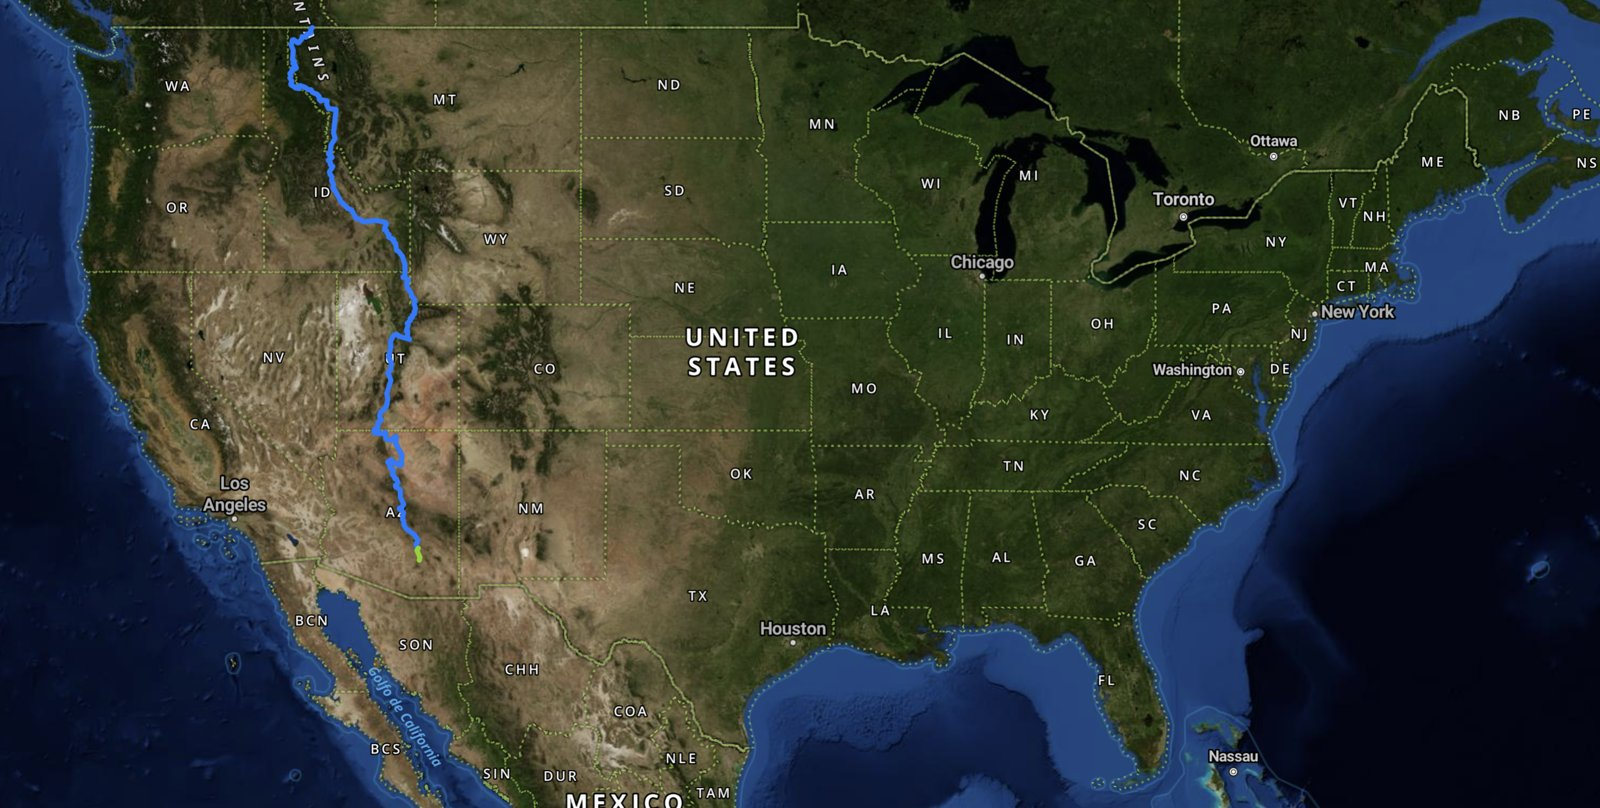
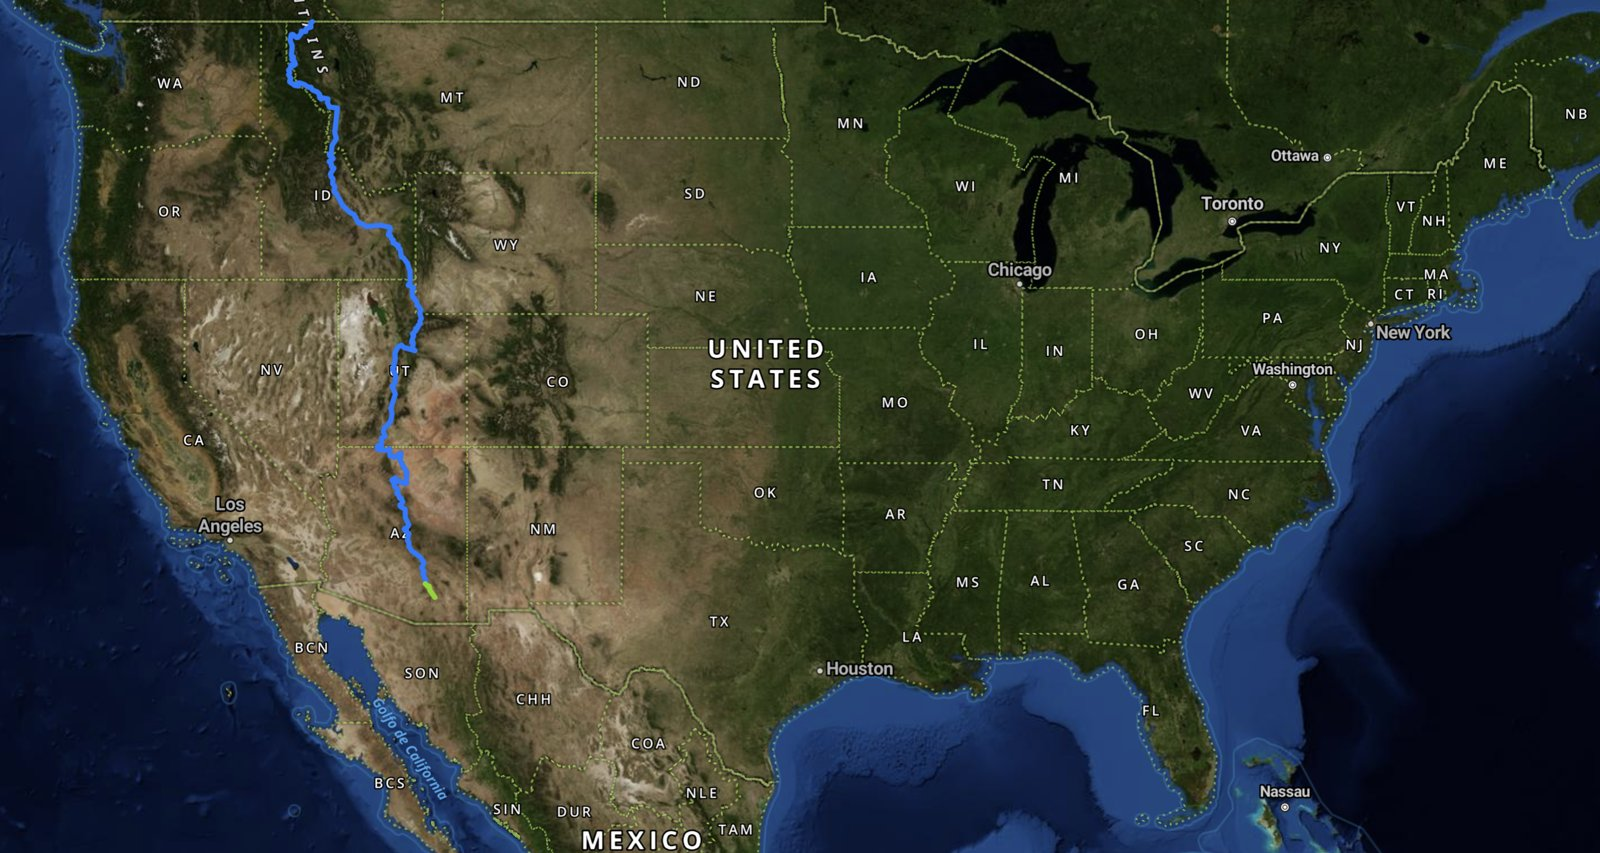
Day 39: Cottonwood Wash to Three Links Rd, 44.3 mi; seven photos from days 37 and 38; progress map

diff --git a/rick/data.js b/rick/data.js
@@ -172,21 +172,31 @@ const LOG = [
   {day:38, date:"2026-10-13", end:"Cottonwood Wash, AZ (near Oracle)", miles:33.7, gain:1772, loss:960, high:3355, low:1918, lat:32.655132, lng:-110.676848, notes:"Gila River to Cottonwood Wash. South down the river valley through Winkelman, Dudleyville, and Mammoth, dipping to 1,918 ft, his lowest point since the Kootenai River in Montana on day 3, then a steady climb at the end of the day to camp at 3,355 ft near Oracle. 33.7 miles with 1,772 ft of climbing.", updates:[
     {time:"4:34 pm", miles:33.7, gain:1772, text:"Done for the day at Cottonwood Wash after 33.7 miles, +1,772 / -960 ft."},
   ]},
+  {day:39, date:"2026-10-14", end:"Three Links Rd, AZ (San Pedro valley)", miles:44.3, gain:2031, loss:1453, high:3415, low:2620, lat:32.206815, lng:-110.304648, notes:"Cottonwood Wash to Three Links Road. After an evening of storms over camp, south down the San Pedro River valley on the east side of the Santa Catalinas and the Rincons, dipping to 2,620 ft and climbing back up to camp near Three Links Road at about 3,400 ft. 44.3 miles with 2,031 ft of climbing.", updates:[
+    {time:"Evening", miles:44.3, gain:2031, text:"Camped near Three Links Road after 44.3 miles, +2,031 / -1,453 ft."},
+  ]},
 ];
 
 // Rick's last known position. This drives the "Where is Rick?" block, the map, and the weather. Update whenever new coordinates come in, even mid-day.
 // town = nearest town, state = 2-letter state, label = extra detail (forest, lake, pass), asOf = when the position was reported (Mountain time), approx:true shows an "approximate" tag instead of "from his Garmin".
-const LOCATION = {lat:32.655132, lng:-110.676848, town:"Cottonwood Wash", state:"AZ", label:"Camped near Oracle after 33.7 miles on day 38", asOf:"Oct 13, 4:34 pm MT", approx:false};
+const LOCATION = {lat:32.206815, lng:-110.304648, town:"Three Links Rd", state:"AZ", label:"Camped in the San Pedro valley east of Tucson after 44.3 miles on day 39", asOf:"Oct 14, evening MT", approx:false};
 
 // Intraday news that is not a completed day. Shows under the position. Set to "" when there is nothing to say. Only add a LOG row once the day is done.
-const STATUS = "The last segment is under way. After a Sunday off in Globe, Rick rode 29 miles to the Gila River on Monday and 33.7 more on Tuesday, day 38, down the valley through Winkelman and Mammoth and up to camp at Cottonwood Wash near Oracle. Tucson is just over the mountains, and the Mexican border at Sierra Vista is about 220 miles out. He is due there Saturday, Oct 17.";
+const STATUS = "Closing in. After a night of storms over camp at Cottonwood Wash, Rick rode 44.3 miles on day 39 down the San Pedro valley east of Tucson to camp near Three Links Road. The Mexican border south of Sierra Vista is about 60 miles away as the crow flies, and he is due there Friday or Saturday.";
 // Cover photo for the top of the tracker page (file name without .jpg, from rick/photos/). Use a wide crop; the bottom third fades into the page.
 // Zoomed-out map of the whole West with Rick's track so far (screenshot from the Windy/onX view). Re-shoot every few days, overwrite the same file, update asOf.
-const PROGRESS_MAP = {file:"wwr-progress-map", asOf:"Oct 13, 2026, end of day 38", caption:"Blue and green is Rick's track so far, Roosville to Cottonwood Wash north of Tucson, with day 38 in green. The Mexican border at Sierra Vista is all that is left."};
+const PROGRESS_MAP = {file:"wwr-progress-map", asOf:"Oct 14, 2026, end of day 39", caption:"Blue and green is Rick's track so far, Roosville to the San Pedro valley east of Tucson, with day 39 in green. The Mexican border at Sierra Vista is just south."};
 const COVER = "2026-09-06-roosville-start-cover";
 
 // Photos: file names live in rick/photos/. Add the full-size jpg plus a -thumb.jpg. Newest first.
 const PHOTOS = [
+  {file:"2026-10-13-storm-radar", date:"2026-10-13", time:"19:53", caption:"Day 38. Rick's radar check that evening: a line of storms right over his spot north of Tucson."},
+  {file:"2026-10-13-storm-over-camp", date:"2026-10-13", time:"19:01", caption:"Day 38, evening. Storm clouds building over the tent at Cottonwood Wash."},
+  {file:"2026-10-13-cottonwood-wash-camp", date:"2026-10-13", time:"19:00", caption:"Day 38. Camp at Cottonwood Wash among the saguaros and cholla."},
+  {file:"2026-10-12-gila-river-evening", date:"2026-10-12", time:"18:17", caption:"Day 37, evening. Last light on the mountain above the Gila River camp."},
+  {file:"2026-10-12-gila-river", date:"2026-10-12", time:"14:49", caption:"Day 37. The Gila River, running brown after the rain."},
+  {file:"2026-10-12-gila-river-tent", date:"2026-10-12", time:"13:59", caption:"Day 37. The tent and the covered bike in the mesquite by the Gila River."},
+  {file:"2026-10-12-green-hills-south-of-globe", date:"2026-10-12", time:"11:09", caption:"Day 37. Grassy green hills and big clouds on the climb south out of Globe."},
   {file:"2026-10-10-road-to-globe", date:"2026-10-10", time:"10:35", caption:"Day 35. The highway winding toward the mountains on the way to Globe."},
   {file:"2026-10-10-saguaro-hillside", date:"2026-10-10", time:"09:26", caption:"Day 35. A hillside full of saguaros along the road."},
   {file:"2026-10-10-roosevelt-lake-bridge", date:"2026-10-10", time:"09:26", caption:"Day 35. The Roosevelt Lake Bridge, the big steel arch at the dam end of the lake."},
@@ -345,5 +355,5 @@ const PHOTOS = [
   {file:"2026-09-06-koocanusa-bridge", date:"2026-09-06", time:"13:36", caption:"Day 1. The Lake Koocanusa bridge from the road above, the longest bridge in Montana, over the Kootenai River backed up behind Libby Dam."},
   {file:"2026-09-06-roosville-start", date:"2026-09-06", time:"10:02", caption:"Day 1. Rick and the loaded bike at the Roosville border crossing, ready to roll south."},
 ];
-const LAST_UPDATED = "Oct 13, 2026, 5:05 pm MT";
+const LAST_UPDATED = "Oct 14, 2026, 10:35 pm MT";
 // ===== END DATA =====
